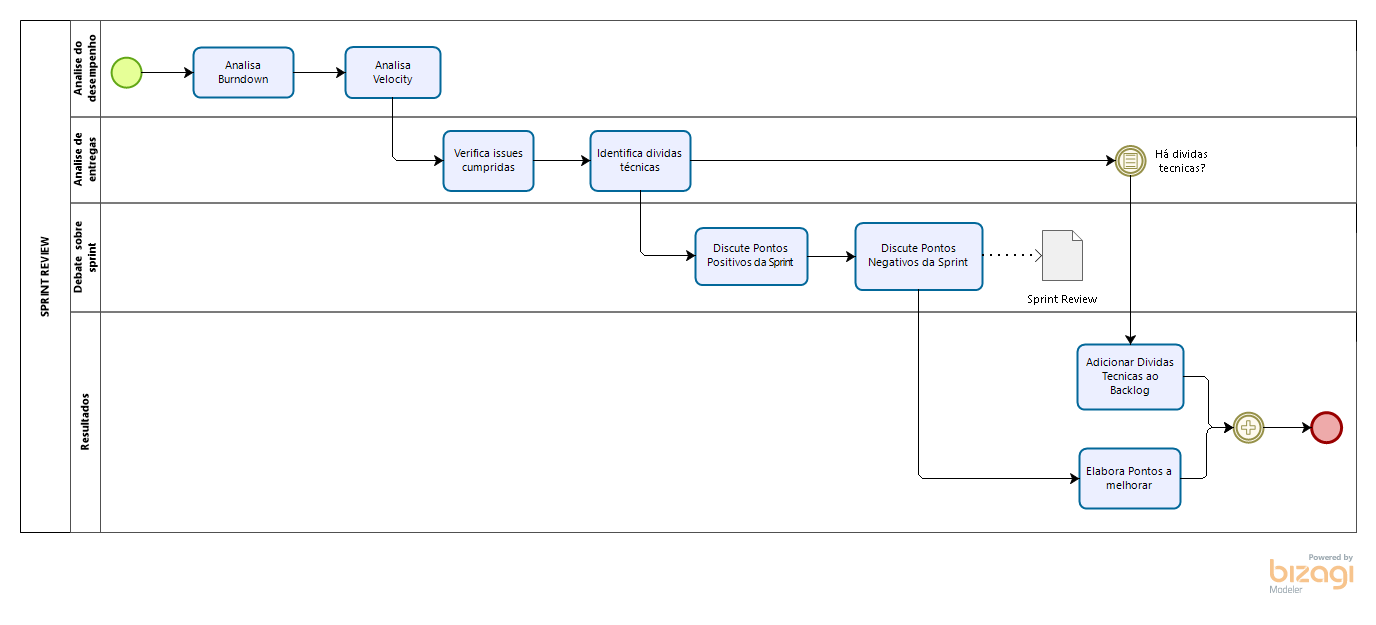
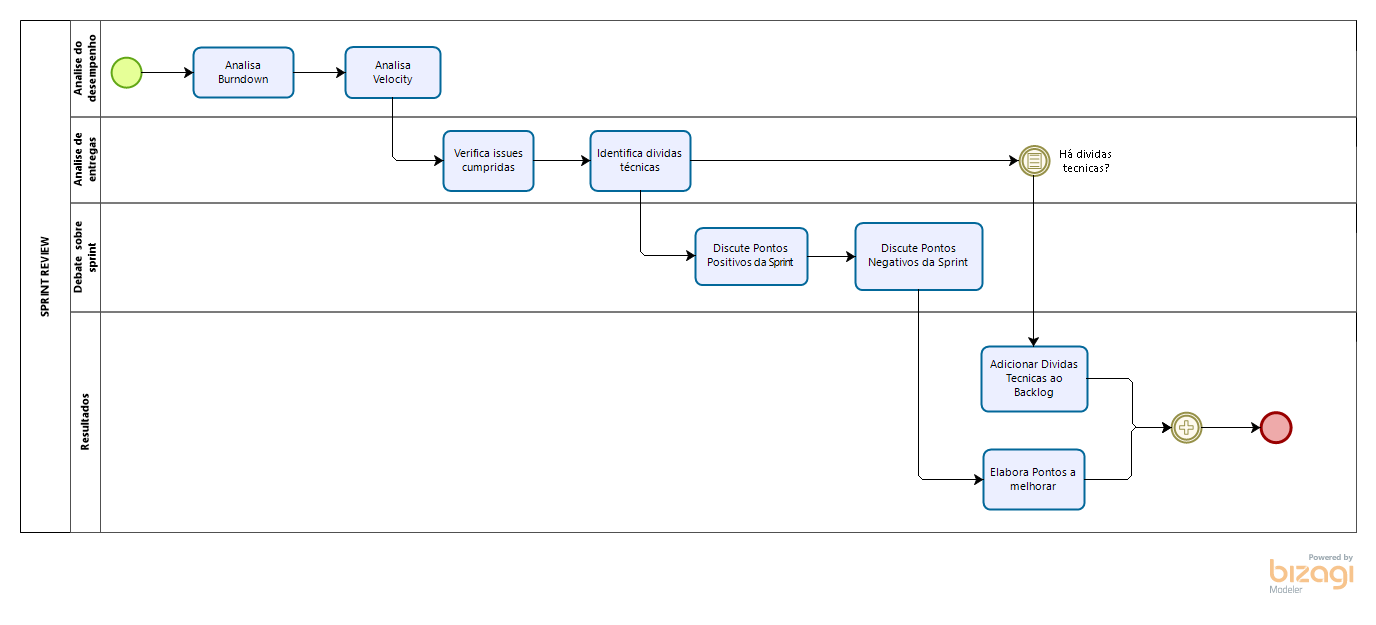
Add new version for Bizagi Diagrams.

diff --git a/docs/metodologia.md b/docs/metodologia.md
@@ -6,9 +6,10 @@
 |27/04/2019 | 0.3 | Refatoração dos diagramas incluindo artefatos | Renan Schadt |
 |29/04/2019 | 0.4 | Inclusão das metodologias de base | Renan Schadt |
 |30/04/2019 | 0.5 | Definição da metodologia montada | Renan Schadt |
+|05/05/2019 | 1.0 | Adicionado versionamento dos diagramas | Renan Schadt |
  
 ## 1. Introdução
-Este documento tem por finalidade definir a metodologia a ser utilizada no projeto, mostrando através dos diagramas feitos no Bizagi, as rotinas e artefatos da equipe até a finalização do desenvolvimento.
+Este documento tem por finalidade definir a metodologia a ser utilizada no projeto, descrevendo as metodologias usadas como base, mostrando os artefatos e rotinas selecionados destas e modelando os processos feitos através do Bizagi.
 
 ## 2. Metodologias de Base
 ### 2.1 Scrum
@@ -30,11 +31,36 @@ O Kanban é orientado através de colunas, em que cada uma representa diferentes
 ![](https://blog.caelum.com.br/wp-content/uploads/2016/01/kanban.jpg)
 
 ### 2.3 XP
-XP é um apelido carinhoso de uma nova metodologia de desenvolvimento designada Extreme Programming, com foco em agilidade de equipes e qualidade de projetos, apoiada em valores como simplicidade, comunicação e feedback constante.
+XP é um apelido carinhoso de uma metodologia ágil de desenvolvimento designada Extreme Programming, com foco em produzir softwares de qualidade e fornecer qualidade de vida aos desenvolvedores. Os cinco valores básicos do XP são:
+
+1. Comunicação: Fundamental para transferir conhecimento entre o time, o framework apoia a comunicação cara a cara, com o apoio de quadro branco e outros mecanismos de desenho.
+
+2. Simplicidade: Evitar desperdícios e só fazer o que é necessário e útil, de maneira a facilitar o entendimento e a manutenção do produto.
+
+3. Feedback Constante: Através do feedback constante é possível identificar pontos a melhorar no software e produzir melhorias e evoluções rapidamente, assim que uma fragilidade é detectada, ajustando os próximos passos do desenvolvimento.
+
+4. Coragem: Coragem para tomar decisões mal-vistas no presente, que irão trazer bom retorno no futuro, como levantar problemas organizacionais que reduzem a produtividade do time, aceitar e reagir a um feedback negativo, parar de fazer algo que não está funcionando e tentar algo diferente.
+
+5. Respeito: É necessário respeito entre os membros da equipe para que haja boa comunicação, trabalhando juntos para identificar problemas e solucioná-los.
 
 Extreme Programming é dinâmica e flexível, entre as suas "boas práticas" é possível citar: TDD, Comentários em código, diversas entregas pequenas, programação em pares, testes de aceitação, planejamento por pontos, refatoramento, presença constante do cliente, integração contínua, entre outros.
 
 ### 2.4 RUP
+
+Segundo o documento descritivo do IBM Rational Unified Process, em mais de 20 anos de experiência trabalhando com clientes em milhares de projetos, o grupo IBM Rational construiu uma biblioteca de práticas comprovadas para desenvolvimento de softwares, extensíveis e escaláveis para se adaptarem às necessidades específicas dos projetos. O IBM Rational Unified Process (ou IBM RUP), é uma biblioteca abrangente que fornece práticas centradas em torno de um conjunto de princípios que a IBM achou que caracterizam as mais bem sucedidas organizações de sistemas e software do mundo:
+* Adaptar o processo
+* Balencear as prioridades dos __stakeholders__
+* Colaboração entre as equipes
+* Demonstrar valor iterativamente
+* Elevar o nível de abstração
+* Foco na qualidade
+
+Esses princípios ajudam a melhorar a produtividade individual e a colaboração de equipe para criar software e sistemas de alta qualidade, permitindo a construção de aplicações flexíveis que podem crescer e se adaptar.
+
+"Para projetos menores com equipes fixas e tecnologia conhecida, os processos podem ser simples e informais. Para projetos maiores e distribuídos, que usam mais tecnologias e têm que estar de acordo com padrões mais rígidos, os processos se tornam mais complexos
+e disciplinados." (IBM Rational Unified Process - Disponibilizado em: ftp://public.dhe.ibm.com//software/pdf/br/RUP_DS.pdf) 
+
+Conforme o documento descritivo do IBM Rational Unified Process, a solução Rational Unified Process fornece uma coleção de processos que podem ser personalizados para abordar um conjunto diverso de necessidades de projeto e estilos de desenvolvimento. É capaz de suportar virtualmente qualquer tipo de esforço de desenvolvimento – de projetos ágeis e iterativos usando orientação de processo leve, a processos mais formais e regulatórios. É possível adaptar o processo ao tamanho e a distribuição da equipe de projeto, aos sistemas, diferentes e complexos das aplicações sendo desenvolvidas, e aos requisitos de conformidade.
 
 ## 3. Metodologia Montada
 A metodologia adotada no projeto foi híbrida, baseada nos modelos do Scrum, Kanban, XP e RUP, além da inclusão de alguns artefatos pertinentes para demonstrar melhor nosso produto e como ele está sendo desenvolvido e rotinas pertinentes para organizar melhor o grupo.
@@ -64,60 +90,102 @@ O SCRUM é a metodologia base do projeto, principalmente no que se refere a roti
 ### 3.2 Elementos Kanban
 O grupo decidiu aplicar o Kanban para possibilitar o acompanhamento do progresso das tarefas definidas, através do plug-in ZenHub. As tarefas são bem documentadas e cada "card" pode receber comentários, com dúvidas e outros tipos de feedback.
 
-Aplicamos as seis práticas básicas do Kanban: Visualizar o fluxo de trabalho (workflow), limitar a quantidade de trabalho em andamento (WIP), gerenciar e medir o fluxo, tornar as políticas do processo explícitas, implementar loops de feedback e usar modelos para reconhecer oportunidades de melhoria.
+Aplicamos as seis práticas básicas do Kanban: Visualizar o fluxo de trabalho (workflow), limitar a quantidade de trabalho em andamento (WIP), gerenciar e medir o fluxo, tornar as políticas do processo explícitas, implementar loops de feedback e usar modelos para reconhecer oportunidades de melhoria, para extrairmos o máximo da técnica.
+
+Como nossa metodologia não contém dailys, uma parte da comunicação é feita nas issues do ZenHub, que são usadas para verificar critérios de aceitação, demandar revisão, comunicar dificuldades, esclarecer pontos críticos, entre outros.
 
 ### 3.3 Elementos XP
+Os seguintes artefatos e rotinas do XP foram adotados: 
+1. Comentários em Código
+2. Entregas Pequenas
+3. Programação em Pares
+4. Planejamento por Pontos
+5. Refatoramento
+6. Integração Contínua
+
+A equipe segue os cinco princípios básicos do XP: comunicação, simplicidade, feedback constante, coragem e respeito.
 
 ### 3.4 Elementos RUP
+Os seis princípios básicos do RUP são seguidos pelo grupo, são eles:
+1. Adaptar o processo
+2. Balencear as prioridades dos __stakeholders__
+3. Colaboração entre as equipes
+4. Demonstrar valor iterativamente
+5. Elevar o nível de abstração
+6. Foco na qualidade
 
-### 3.5 Elementos Extras
+Como o RUP é uma solução privada e altamente personalizável, o grupo decidiu apenas seguir alguns padrões e templates dessa metodologia. Podemos destacar modelos UML estáticos e dinâmicos, templates de diversos documentos como visão, arquitetura, termo de abertura do projeto, entre outros.
 
 ## 4. Diagramas
+Abaixo estão 11 diagramas, modelados utilizando a notação BPMN e o software modelador de processos Bizagi, que ilustram a organização, tarefas e artefatos gerados pelo grupo, caracterizando o que chamamos de metodologia.
 
-### 4.1 Funcionamento Geral V1.0
-![](assets/metodologia/bpmn_funcionamento_sprints_2.png)
+Para auxiliar no entendimento da metodologia e do software em questão o grupo utilizou um manual disponibilizado pela Secretaria de Estado de Gestão e Planejamento de Goiás, que está disponível nas referências deste documento.
+
+Os títulos dos diagramas mostram qual processo ele define. O diagrama 4.1 compreende o funcionamento geral da nossa metodologia, contendo sub-processos que representam outros diagramas, os artefatos nesse diagrama foram omitidos para melhorar a clareza deste, de qualquer forma eles estão detalhados nos modelos sequentes. Os diagramas 4.2 a 4.6, compreendem processos realizados no começo do projeto, cada um deles realizado uma única vez, antes da fase de desenvolvimento, marcando um rastro e funcionando como um passo-a-passo do que foi feito. Os diagramas 4.7 a 4.11 compreendem processos cíclicos, que ocorrem ao longo do desenvolvimento diversas vezes e ilustram o funcionamento das sprints neste projeto.
+
+### 4.1 Funcionamento Geral
+Funcionamento Geral - V1.0
+![](assets/metodologia/bpmn_funcionamento_sprints.png)
+Funcionamento Geral - V1.1
+![](assets/metodologia/bpmn_funcionamento_sprints_v2.png)
 
 ### 4.2 Processo de Decisão de Tema
-
-![](assets/metodologia/bpmn_planejamento_definicao-de-tema.png)
+Processo de Decisão de Tema - V1.0
+![](assets/metodologia/bpmn_planejamento_definicao_tema.png)
+Processo de Decisão de Tema - V1.1
+![](assets/metodologia/bpmn_planejamento_definicao_tema_v2.png)
 
 ### 4.3 Processo Decisão de Metodologia
+Processo Decisão de Metodologia - V1.0
 ![](assets/metodologia/bpmn_planejamento_definicao_metodologia.png)
+Processo Decisão de Metodologia - V1.1
+![](assets/metodologia/bpmn_planejamento_definicao_metodologia_v2.png)
 
 ### 4.4 Processo Decisão de Tecnologia
-
-![](assets/metodologia/bpmn_planejamento_definicao-de-tecnologia.png)
+Processo Decisão de Tecnologia - V1.0
+![](assets/metodologia/bpmn_planejamento_definicao_tecnologia.png)
+Processo Decisão de Tecnologia - V1.1
+![](assets/metodologia/bpmn_planejamento_definicao_tecnologia_v2.png)
 
 ### 4.5 Definição do Backlog
-
+Definição do Backlog - V1.0
 ![](assets/metodologia/bpmn_backlog_geral_2.png)
 
 ### 4.6 Documentação
-
+Documentação - V1.0
 ![](assets/metodologia/bpmn_planejamento_documentacao.png)
+Documentação - V1.1
+![](assets/metodologia/bpmn_planejamento_documentacao_v2.png)
 
 ### 4.7 Sprint Review
-
+Sprint Review - V1.0
 ![](assets/metodologia/bpmn_sprint_review.png)
+Sprint Review - V1.1
+![](assets/metodologia/bpmn_sprint_review_v2.png)
 
 ### 4.8 Sprint Planning
-
+Sprint Planning - V1.0
 ![](assets/metodologia/bpmn_sprint_planning.png)
+Sprint Planning - V1.1
+![](assets/metodologia/bpmn_sprint_planning_v2.png)
 
 ### 4.9 Funcionamento da Sprint
-
-![](assets/metodologia/bpmn_sprint_novo_modelo_2.png)
+Funcionamento da Sprint - V1.0
+![](assets/metodologia/bpmn_sprint.png)
+Funcionamento da Sprint - V1.1
+![](assets/metodologia/bpmn_sprint_v2.png)
 
 ### 4.10 Acompanhamento da Sprint
-
+Acompanhamento da Sprint - V1.0
 ![](assets/metodologia/bpmn_acompanhamento_da_sprint.png)
 
 ### 4.11 Ponto de Controle
-
+Ponto de Controle - V1.0
 ![](assets/metodologia/bpmn_ponto_de_controle.png)
 
-
-## 5.0 Referências
+## 5. Referências
  * [Guia do Scrum](https://www.scrumguides.org/docs/scrumguide/v1/Scrum-Guide-Portuguese-BR.pdf)
-
  * [Kanban](https://www.culturaagil.com.br/kanban-do-inicio-ao-fim/)
+ * [Extreme Programming](https://www.agilealliance.org/glossary/xp/)
+ * [IBM Rational Unified Process](ftp://public.dhe.ibm.com//software/pdf/br/RUP_DS.pdf)
+ * [Manual de Modelagem de Processos com Bizagi Modeler](http://www.sgc.goias.gov.br/upload/arquivos/2017-04/manual-de-modelagem-de-processos-usando-bizagi.pdf)

diff --git a/docs/requisitos/modelagem/nfr.md b/docs/requisitos/modelagem/nfr.md
@@ -13,8 +13,6 @@
 
 ### 1.2. Escopo
 
-### 1.3. Referências
-
 ## 2. Segurança e Privacidade
 
 <iframe frameborder="0" style="width:160%;height:400px;" src="https://www.draw.io/?lightbox=1&highlight=0000ff&edit=_blank&layers=1&nav=1#G1MJrp5h0Ak-EyIoB_GbuJ2dNzD2Rnbodu"></iframe>
@@ -24,3 +22,5 @@
 <iframe frameborder="0" style="width:200%;height:400px;" src="https://www.draw.io/?lightbox=1&highlight=0000ff&edit=_blank&layers=1&nav=1#G160iv-Dl_g6iKoA6OzDitaviQzbkm-6mR"></iframe>
 
 ## 4. Flexibilidade
+
+## 5. Referências
